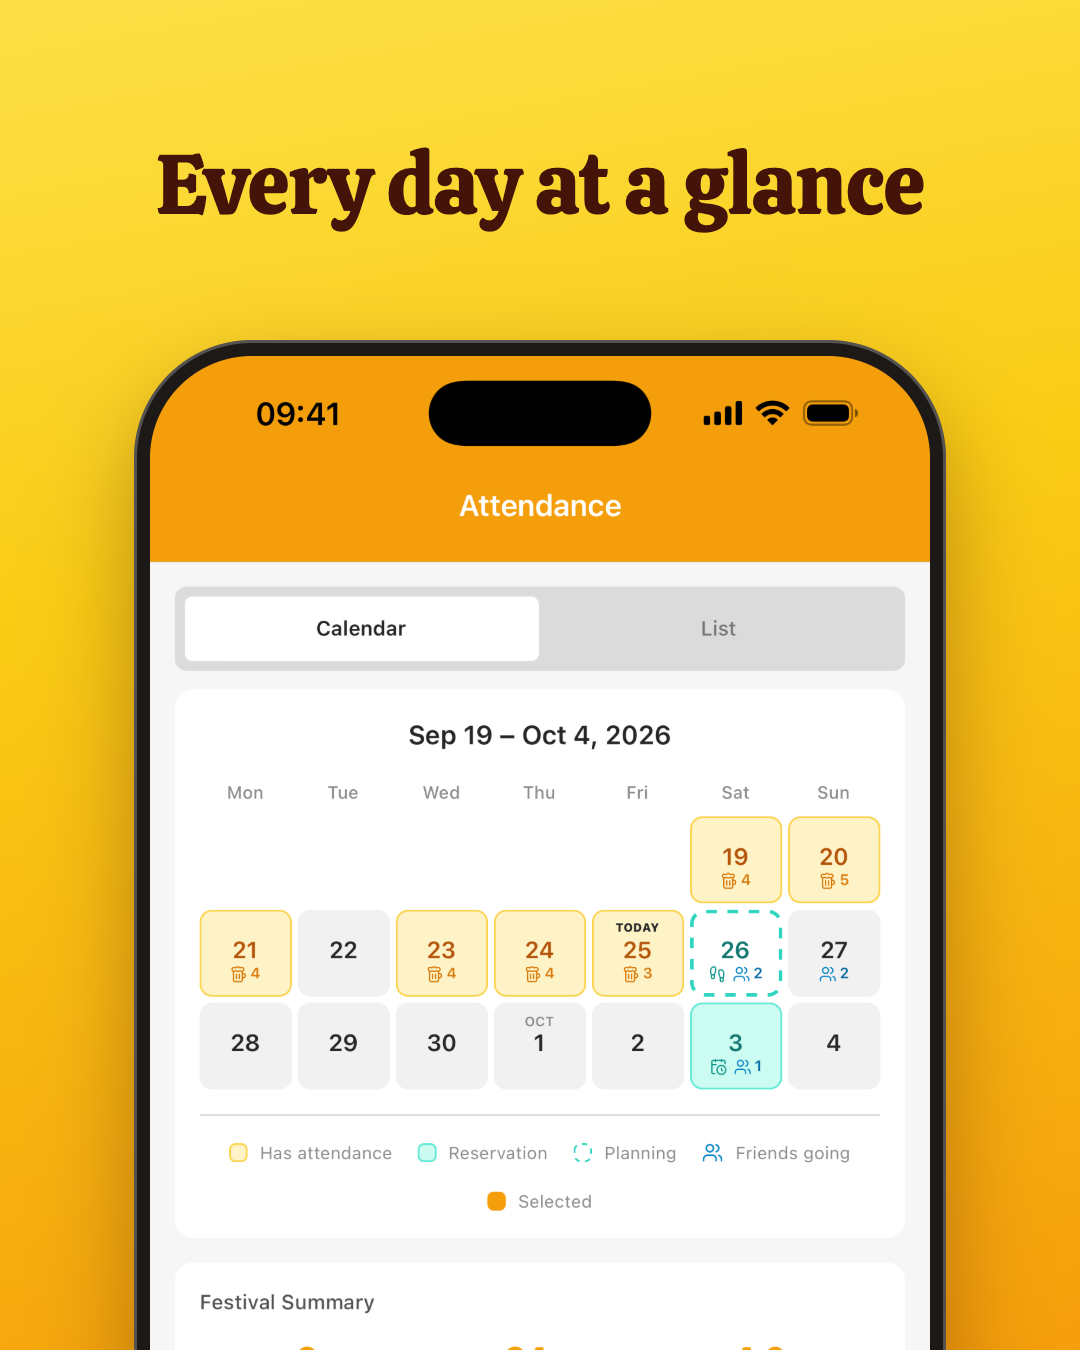
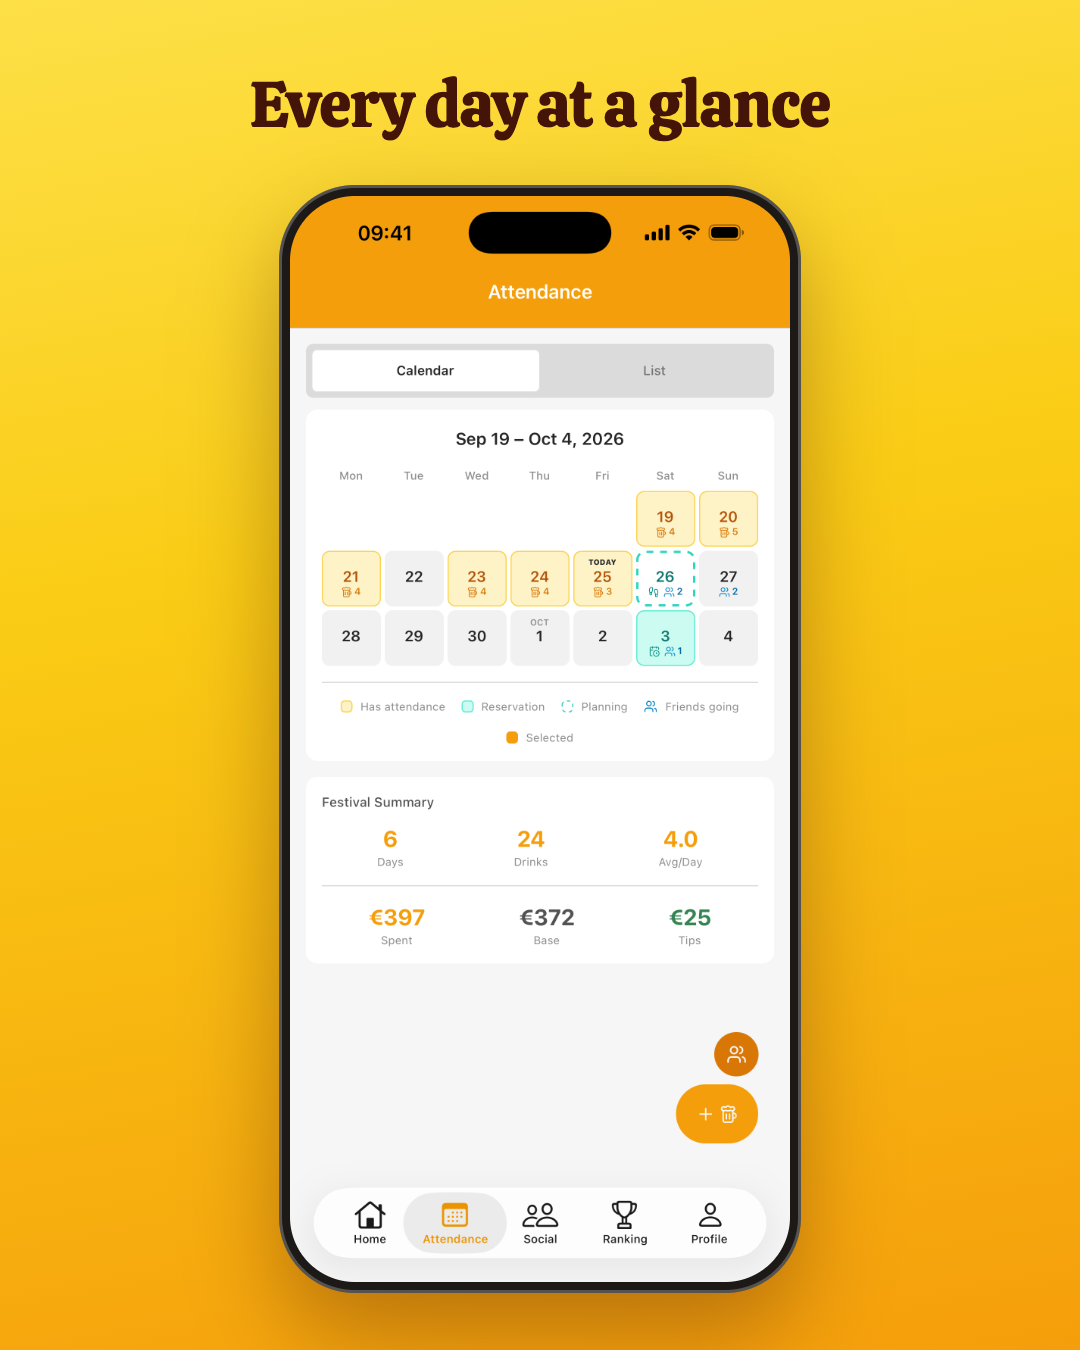
chore: fit the whole phone in the Instagram frame

diff --git a/scripts/store-screenshots/render.py b/scripts/store-screenshots/render.py
@@ -5,7 +5,7 @@ Usage: python3 scripts/store-screenshots/render.py [locale] [target]   (defaults
 Reads screenshots/iphone-6.9/raw/<id>.png and copy.json. Targets:
   appstore   1320x2868 (App Store 6.9")  -> screenshots/iphone-6.9/framed/<locale>/
   play       1080x1920 (Play, 9:16)      -> fastlane/metadata/android/<play locale>/images/phoneScreenshots/
-  instagram  1080x1350 (feed, 4:5; the phone runs off the bottom) -> screenshots/instagram/<locale>/
+  instagram  1080x1350 (feed, 4:5, whole phone) -> screenshots/instagram/<locale>/
 """
 import html
 import json
@@ -26,7 +26,7 @@ PLAY_LOCALES = {"en": "en-US", "de": "de-DE", "es": "es-ES"}
 TARGETS = {
     "appstore": dict(width=1320, height=2868, font=124, top=200, head=268, gap=80, phone=990, pad=20, radius=150),
     "play": dict(width=1080, height=1920, font=92, top=110, head=210, gap=60, phone=700, pad=14, radius=106),
-    "instagram": dict(width=1080, height=1350, font=84, top=90, head=190, gap=60, phone=780, pad=16, radius=118),
+    "instagram": dict(width=1080, height=1350, font=64, top=50, head=110, gap=25, phone=500, pad=11, radius=76),
 }
 
 

diff --git a/scripts/store-screenshots/README.md b/scripts/store-screenshots/README.md
@@ -12,9 +12,9 @@ python3 scripts/store-screenshots/render.py en play       # Play, 1080x1920, int
 python3 scripts/store-screenshots/render.py en instagram  # feed 4:5, 1080x1350, into screenshots/instagram/en/
 ```
 
-Play rejects anything longer than 2:1, so it can't take the App Store frames. The
-Instagram frame lets the phone run off the bottom, which hides bottom sheets: the
-log-drink and tent-picker shots don't work there.
+Play rejects anything longer than 2:1, so it can't take the App Store frames.
+Instagram feed posts top out at 4:5, so that frame shrinks the phone to fit whole;
+pick the 4:5 crop in the post flow or Instagram squares it.
 
 Headlines come from `copy.json`, keyed by the raw file name. Adding a locale is
 adding a block there (German with real umlauts, Spanish in voseo) and running the
